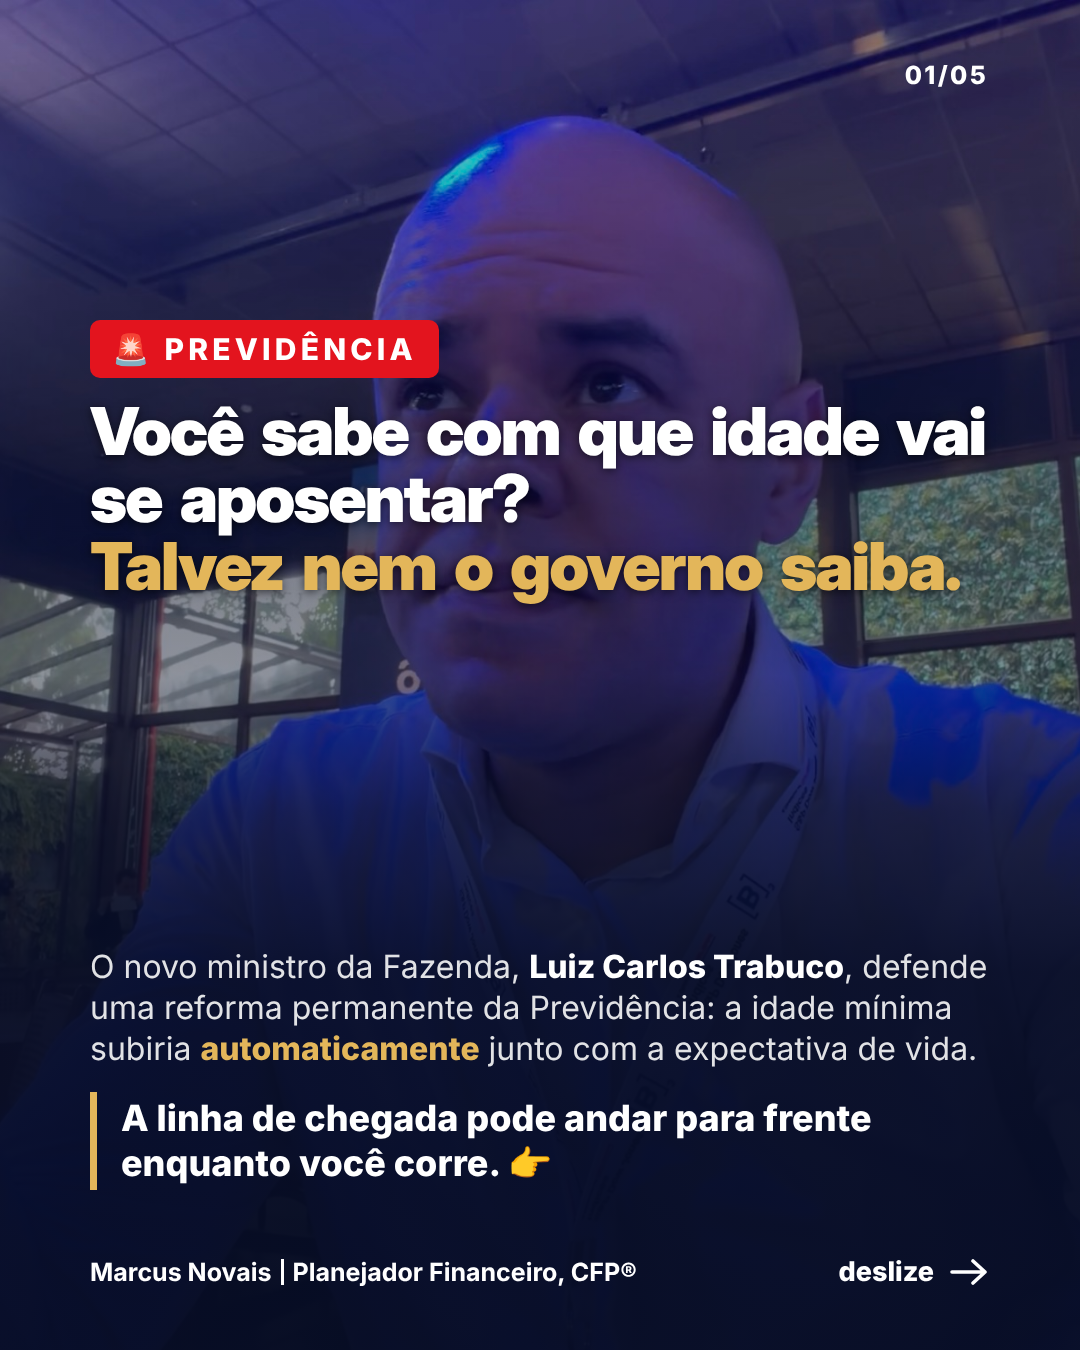
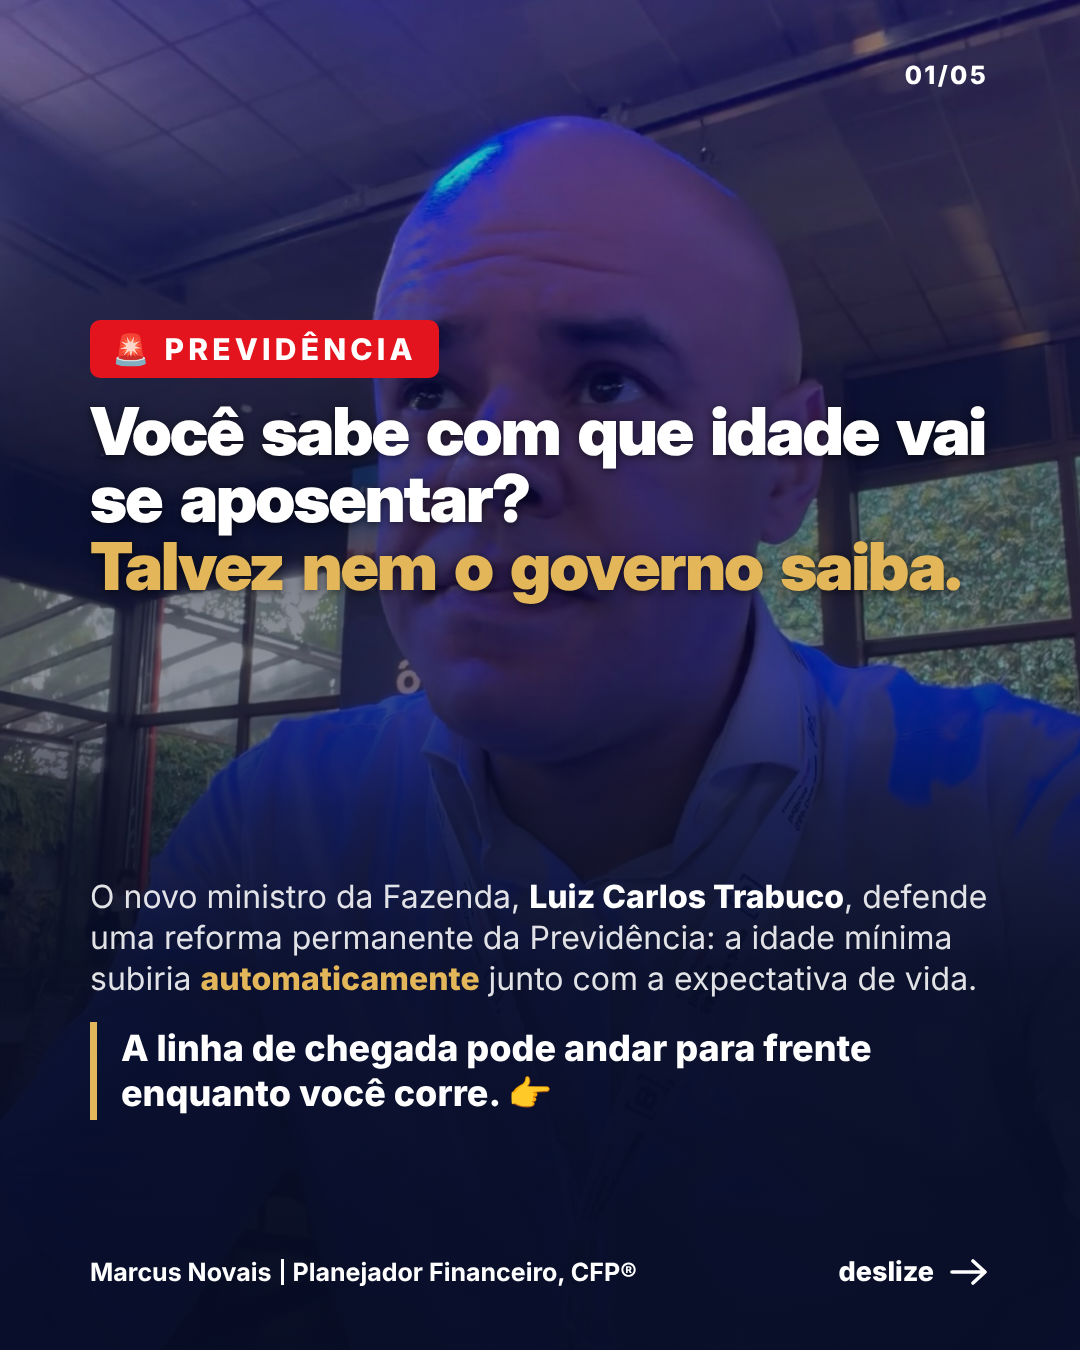
Carrossel Previdência: texto de baixo da capa mais alto
Claude-Session: https://claude.ai/code/session_01JkBXj6tz5hpSkGAznkwYEm

Changed region(s): [[0.0611, 0.6533, 0.9167, 0.8711]]

diff --git a/carrossel-previdencia-expectativa/slides.html b/carrossel-previdencia-expectativa/slides.html
@@ -144,7 +144,7 @@ S.push({h:`<div class="bg">${PH('marcus','50% 25%')}</div>
  <div class="shade" style="background:linear-gradient(180deg, rgba(7,13,36,.15) 0%, rgba(7,13,36,.4) 24%, rgba(7,13,36,.55) 36%, rgba(7,13,36,.45) 50%, rgba(7,13,36,.75) 60%, rgba(7,13,36,.93) 72%, rgba(7,13,36,.96) 100%)"></div>
  <div style="position:absolute; left:90px; right:90px; top:320px; z-index:3"><div class="pill red" style="display:inline-block">🚨 Previdência</div>
   <h1 style="font-size:66px; text-transform:none; letter-spacing:-.03em; text-shadow:0 2px 10px rgba(0,0,0,.6)">Você sabe com que idade vai se aposentar?<br><em>Talvez nem o governo saiba.</em></h1></div>
- <div class="page end"><p style="font-size:32px">O novo ministro da Fazenda, <b>Luiz Carlos Trabuco</b>, defende uma reforma permanente da Previdência: a idade mínima subiria <b class="g">automaticamente</b> junto com a expectativa de vida.</p>
+ <div class="page end" style="padding-bottom:230px"><p style="font-size:32px">O novo ministro da Fazenda, <b>Luiz Carlos Trabuco</b>, defende uma reforma permanente da Previdência: a idade mínima subiria <b class="g">automaticamente</b> junto com a expectativa de vida.</p>
   <div class="hl">A linha de chegada pode andar para frente enquanto você corre. 👉</div></div>`});
 // 2 notícia IBGE
 S.push({light:1, h:`<div class="page"><div class="pill">O gatilho já disparou</div>
